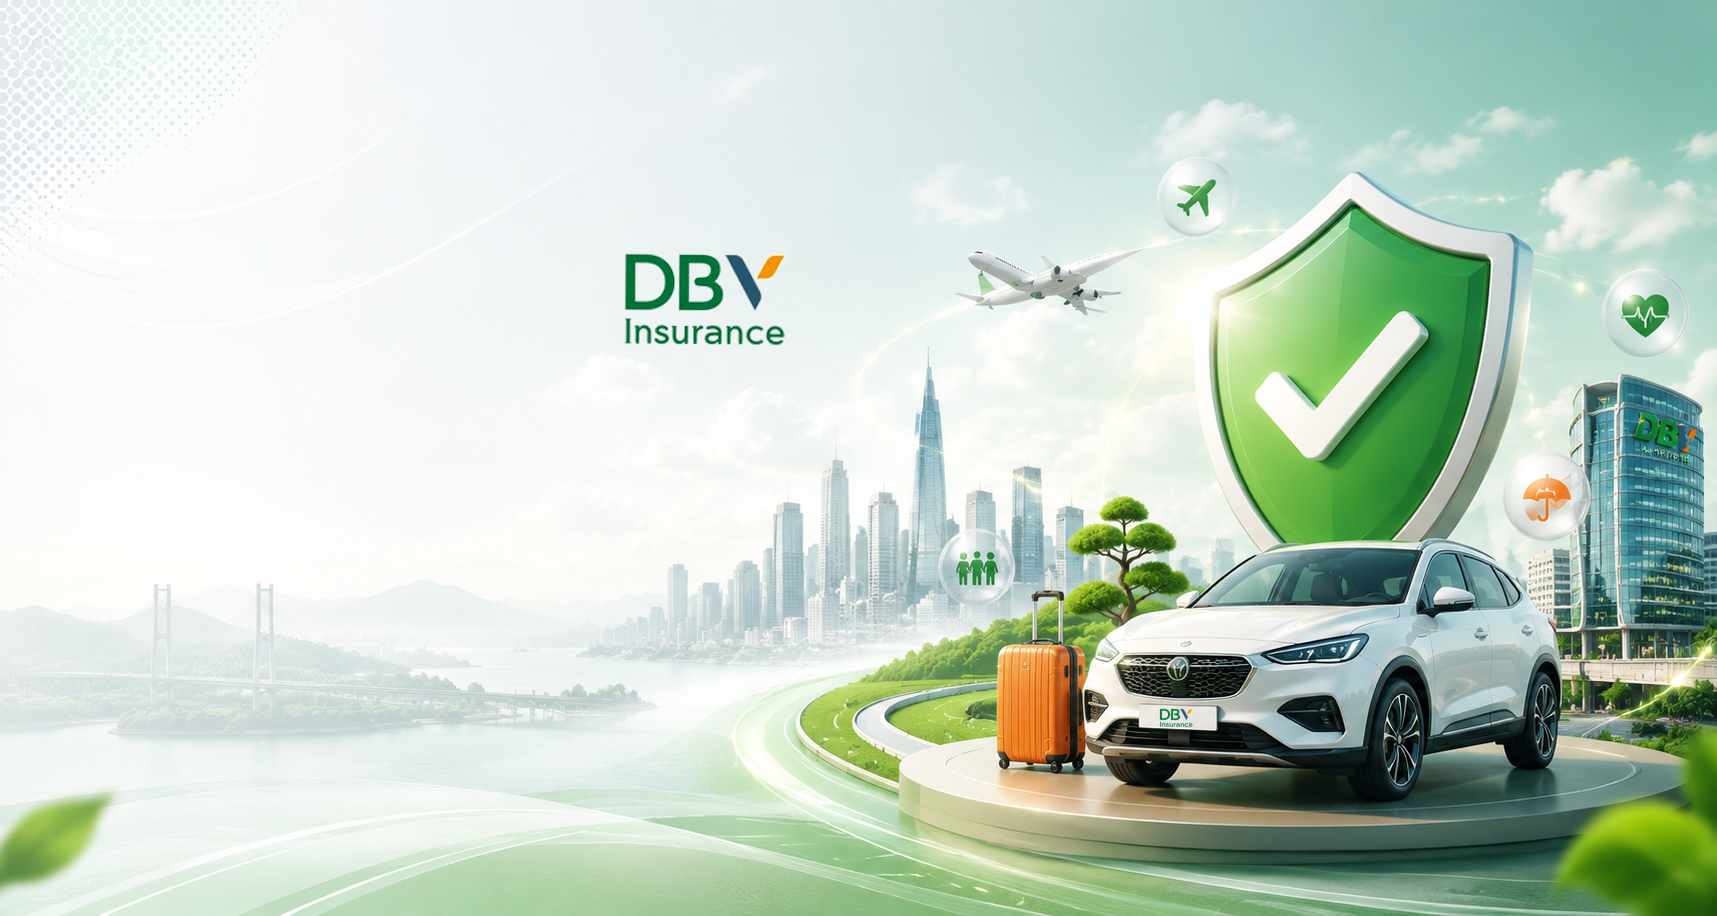
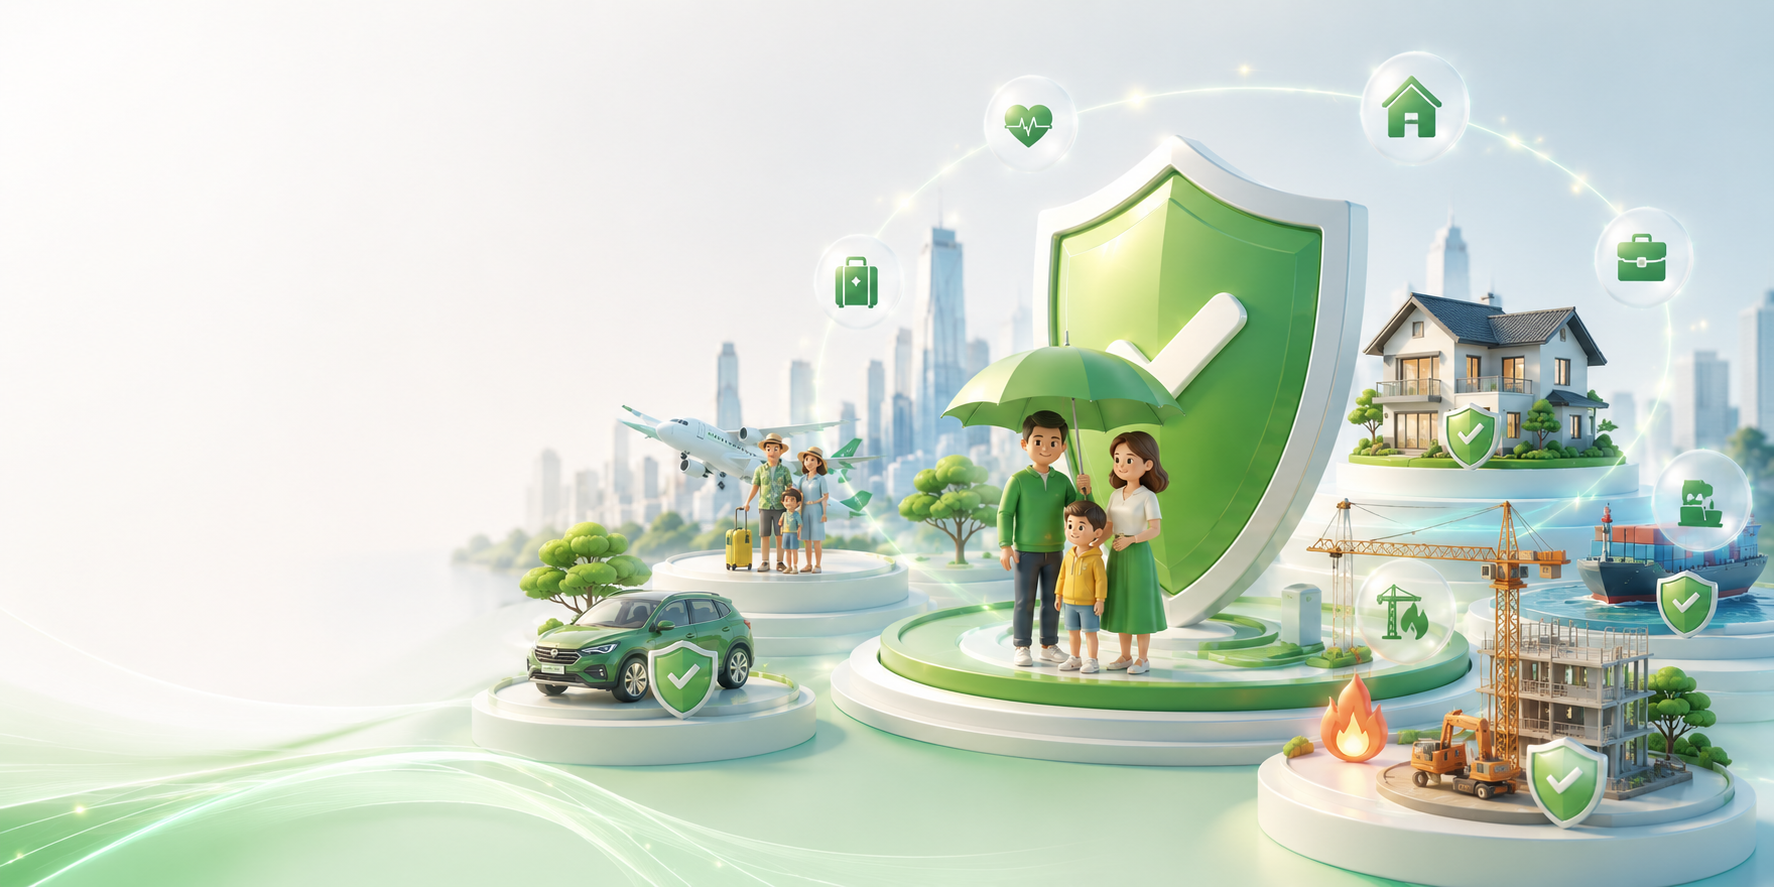
.

diff --git a/index-test.html b/index-test.html
@@ -111,9 +111,7 @@ body{font-family:"Be Vietnam Pro",sans-serif;color:var(--tx);background:#fff;lin
 .plogo-bidv{color:#00548a}
 .plogo-pti{color:#e87722}
 
-/* Right — Visual */
-.hero-visual{position:relative;overflow:hidden;align-self:stretch;min-height:420px;border-radius:20px}
-.hero-banner-img{position:absolute;inset:0;width:100%;height:100%;object-fit:cover;object-position:center;display:block;border-radius:0}
+/* hero-visual is now full-bleed background — defined at line 78 */
 
 
 .b-green svg{stroke:#fff;fill:none;stroke-width:2}
@@ -261,7 +259,7 @@ body{font-family:"Be Vietnam Pro",sans-serif;color:var(--tx);background:#fff;lin
 /* ══ FOOTER ══ */
 .ftr{background:#f4f7f5;border-top:1px solid var(--bd);margin-top:64px}
 .ftr-inner{max-width:1280px;margin:0 auto;padding:52px 32px 40px;display:grid;grid-template-columns:2fr 1fr 1fr 1.5fr;gap:40px}
-.ftr-logo{height:144px;width:auto;display:block;margin-bottom:18px}
+.ftr-logo{height:56px;width:auto;display:block;margin-bottom:18px}
 .ftr-brand-desc{font-size:13px;color:var(--ts);line-height:1.7;margin-bottom:12px}
 .ftr-info a{display:flex;align-items:flex-start;gap:7px;font-size:13px;color:var(--tm);text-decoration:none;margin-bottom:8px;line-height:1.5}
 .ftr-info a:hover{color:var(--g)}
@@ -341,7 +339,7 @@ body{font-family:"Be Vietnam Pro",sans-serif;color:var(--tx);background:#fff;lin
 <section class="hero">
   <!-- Background image — full bleed -->
   <div class="hero-visual">
-    <img class="hero-banner-img" src="/banner-hero.png" alt="Banner DBV247">
+    <img class="hero-banner-img" src="/hero-banner.jpg" alt="Banner DBV247">
   </div>
   <div class="hero-inner">
     <div class="hero-left">
@@ -349,8 +347,8 @@ body{font-family:"Be Vietnam Pro",sans-serif;color:var(--tx);background:#fff;lin
         <svg viewBox="0 0 24 24"><path d="M12 22s8-4 8-10V5l-8-3-8 3v7c0 6 8 10 8 10z"/></svg>
         Kênh tư vấn bảo hiểm trực tuyến của Tập đoàn DBV
       </div>
-      <h1 class="hero-h1">Bảo vệ mọi<br><span>hành trình</span> của bạn</h1>
-      <p class="hero-sub">Từ xe cộ, du lịch đến tài sản – chọn bảo hiểm phù hợp chỉ trong vài giây với tư vấn viên 1-1.</p>
+      <h1 class="hero-h1">Bảo hiểm dễ mua,<br><span>bồi thường</span> dễ nhận</h1>
+      <p class="hero-sub">Tư vấn đúng sản phẩm, hỗ trợ hồ sơ bồi thường trọn vẹn — DBV247 ở đây cho đến khi bạn hoàn toàn an tâm.</p>
 
       <p class="hero-need">Bạn cần bảo hiểm cho</p>
       <div class="hero-cats">